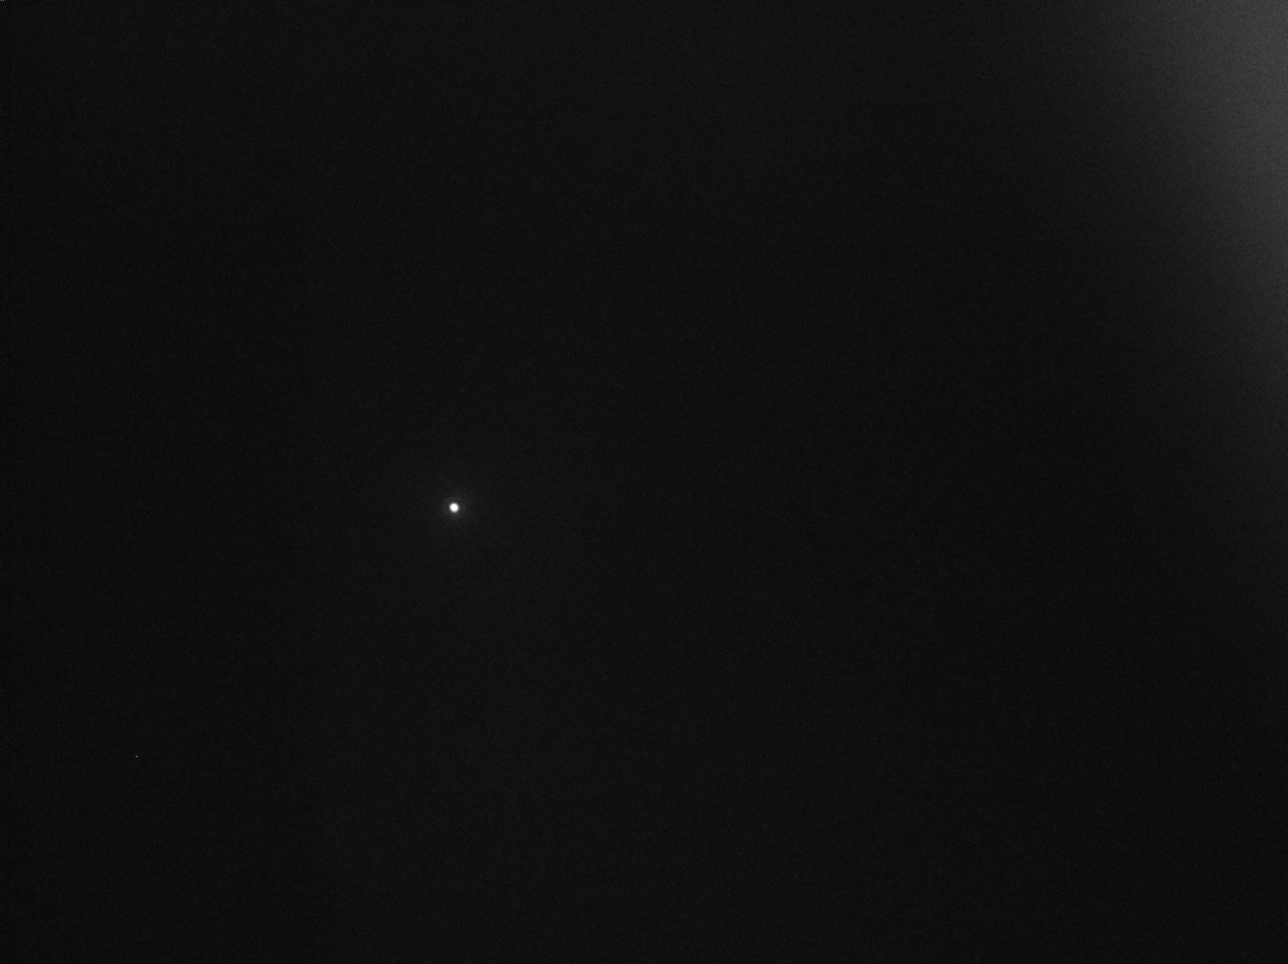
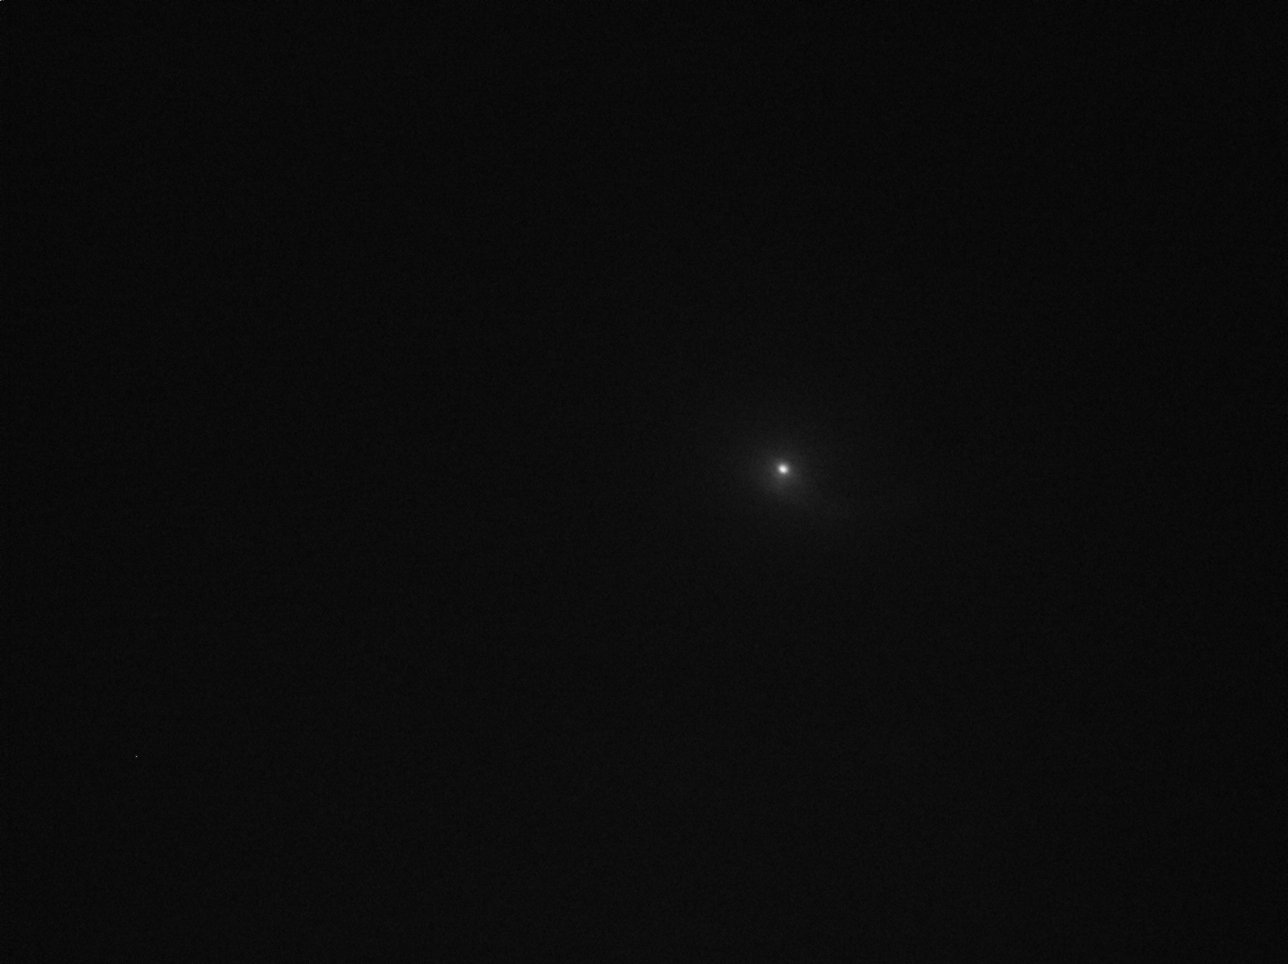
sdsad

Changed region(s): [[0.8385, 0.0, 1.0, 0.4357], [0.5901, 0.4668, 0.6211, 0.529], [0.3416, 0.4979, 0.3727, 0.5602]]

diff --git a/Scanner.py b/Scanner.py
@@ -127,7 +127,7 @@ class Scanner:
 		if not hasattr(self, 'ysteps'):
 			self.ysteps = numpy.linspace(0,0.05, 500)
 
-		self.dataArray = numpy.zeros((len(self.ysteps),len(self.xsteps)), dtype=numpy.float64)
+		self.dataArray = numpy.ones((len(self.ysteps),len(self.xsteps)), dtype=numpy.float64)
 		
 		#prepare the output channels
 		try:
@@ -162,7 +162,7 @@ class Scanner:
 				setattr(self, key, self._config["settings"][key])
 		if hasattr(self, "focus"):
 			self.setFocus(self.focus)
-		self.dataArray = numpy.zeros((len(self.ysteps),len(self.xsteps)), dtype=numpy.float64)
+		self.dataArray = numpy.ones((len(self.ysteps),len(self.xsteps)), dtype=numpy.float64)
 
 	#setImage properties
 	def setImageProperties(self, gain=0.0, shutter=10.0):
@@ -453,11 +453,15 @@ class Scanner:
 		countY = 0
 		plt.clf()
 		plt.ion()
-		imgplot = plt.imshow(self.dataArray, animated=True)
+		from matplotlib.colors import LogNorm
+		imgplot = plt.imshow(self.dataArray, animated=True, norm=LogNorm(vmin=100, vmax=1000000))
 		imgplot.set_interpolation('none')
 		plt.colorbar()
 		tmpB = c_int *19
 		tmpBuffer = tmpB()
+		sleepTime = 0.032
+		exposureTime = int(sleepTime *1000)
+		TDC_setExposureTime(exposureTime)
 		for i in self.ysteps:
 			countX = 0
 			for o in self.xsteps:
@@ -465,7 +469,7 @@ class Scanner:
 				#get pictur
 				#ts = fc2GetImageTimeStamp(rawImage)
 				#print(ts.cycleCount)	
-				time.sleep(0.1)
+				time.sleep(sleepTime)
 				ret = TDC_getCoincCounters(tmpBuffer)
 				
 				#read32 = int32()

diff --git a/qupsi.py b/qupsi.py
@@ -27,6 +27,9 @@ def TDC_getHistogram_Params(binWidth, binCount):
 
 def TDC_getCoincCounters(data):
 	return windll.tdcbase.TDC_getCoincCounters(data)
+	
+def TDC_setExposureTime(time):
+	return windll.tdcbase.TDC_setExposureTime(c_int(time))
 
 #helper functions
 
